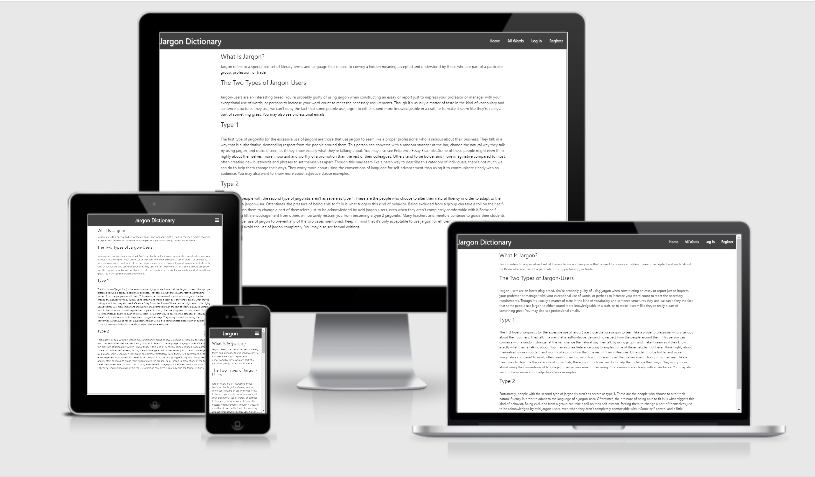
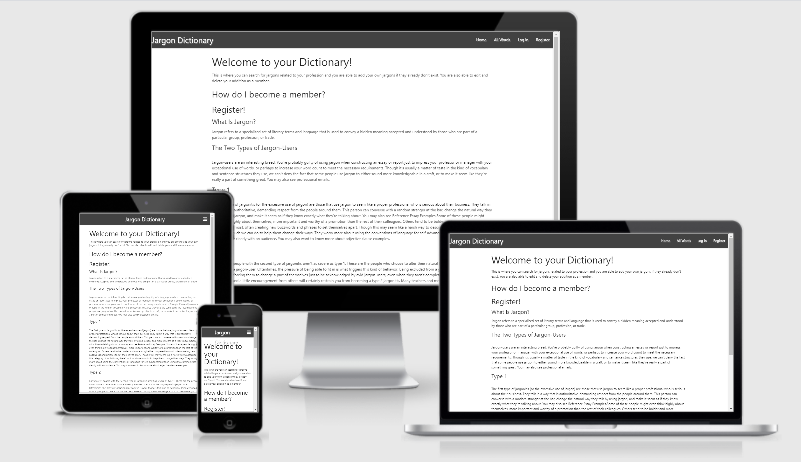
Replaced sketches, wireframe images and updated readme

Changed region(s): [[0.0624, 0.0, 0.9675, 0.9697]]

diff --git a/templates/base.html b/templates/base.html
@@ -38,7 +38,7 @@
 
         <!-- mobile side navbar -->
         <ul class="sidenav" id="mobile-demo">
-            <li><h4 class="center-align blue-grey-text text-darken-4">Jargon Dictionary</h4></li>
+            <li><h4 class="center-align blue-grey-text text-darken-4" style="font-size:5vw;text-align:center;">Jargon Dictionary</h4></li>
             <li><a href="{{ url_for('index') }}">Home</a></li>
             <li><a href="{{ url_for('get_inventories') }}">All Words</a></li>
             {% if session.user %}

diff --git a/static/css/style.css b/static/css/style.css
@@ -14,3 +14,9 @@
     margin: 5px;
     line-height: 42px;
 }
+
+@media only screen and (max-width: 400px) {
+  nav .brand-logo {
+    font-size: 1.2rem;
+  }
+}

diff --git a/README.md b/README.md
@@ -1,16 +1,11 @@
-<img src="/static/images/responsive.png" style="margin: 0; width: 80%;"><br>
+<img src="/static/Images/responsive.png" style="margin: 0; width: 80%;"><br>
 
 # Data Centric Development - Code Institute/O Akerele – Milestone3 Project 
 
 ***Preamble***<br>
-This is my Milestone3 project. It is a **Jargon Dictionary** that is designed to accommodate different professions.<br>
-The site is designed to allow registered members to contribute populate the dictionary. They are able to perform<br> 
-the following operation in the dictionary: Create, Read, Update and Delete (CRUD operation).<br> 
-Similarly, there is administrator priviledge who has the power to perform the CRUD operation and additionally, the<br> 
-only one that could introduce a new category before registered members could begin to perform the CRUD operation on<br> 
-the newly created category.<br>
-Furthermore, it is noteworthy that this site is work-in-progress as there is still a lot of room for improvement. For<br>
-example: password restriction, populating the Profile Page with User personal profile and word contributions.
+This is my Milestone3 project. It is a **Jargon Dictionary** that is designed to accommodate different<br> professions. The site is designed to allow registered members to contribute populate the dictionary. They are<br> able to perform the following operation in the dictionary: Create, Read, Update and Delete (CRUD operation).<br> 
+Similarly, there is administrator priviledge who has the power to perform the CRUD operation and additionally, the<br>
+only one that could introduce a new category before registered members could begin to perform the CRUD operation<br> on the newly created category. Furthermore, it is noteworthy that this site is work-in-progress as there is still<br> a lot of room for improvement. For example, password restriction, populating the Profile Page with User personal<br> profile together with his/her word contributions and adding a search button to the All Word Page.
 
 # Table of Contents
 1. [UX](#ux)
@@ -23,11 +18,12 @@ example: password restriction, populating the Profile Page with User personal pr
 3. [Existing Features](#existing-features)
     - [Home Page](#home-page)
     - [All Words Page](#all-words-page)
-    - [Log In Page](#login-page)
+    - [Register Page](#register-page)
+    - [Log In Page](#log-in-page)
     - [Profile Page](#profile-page)
     - [New Word Page](#new-word-page)
-    - [log Out Page](#logout-page)
     - [Manage Category Page](#manage-category-page)
+    - [log Out Page](#log-out-page)
 4. [Features](#features)
     - [Existing Features](#existing-features)
     - [Features Left](#features-left)
@@ -41,21 +37,18 @@ example: password restriction, populating the Profile Page with User personal pr
 
 # UX:
 ## Project Goal
-The whole idea behind this project is to provide **Jargon Dictionary** where external users will be able to search for<br> 
-words/meanings and particularly for the users to be able to contribute their own words and definitions to the dictionary.<br>
+The whole idea behind this project is to provide **Jargon Dictionary** where external users will be able to<br> search for words/meanings and particularly for the users to be able to contribute their own words and definitions<br> to the dictionary.<br>
 ## User Goal
-The User goal is to be able to lookup for jargons according to their profession and the meaning of such word. Also, the user<br>
-will be able to populate the dictionary by adding new words and meanings.<br>
+The User goal is to be able to lookup for jargons according to their profession and the meaning of such word.<br> Also, the user will be able to populate the dictionary by adding new words and meanings.<br>
 ## Developer Goal
-The Developer goal is mainly to collect good definitions of professional jargons which is to eventually be published into a<br> dictionary in form of a book.<br>
+The Developer goal is mainly to collect good definitions of professional jargons which is to eventually be<br> published into a dictionary in form of a book.<br>
 ## User Stories
-1. As a User I want to be able to search for a jargon and find the meaning to the word.
-2. As a User, I want to be able to contribute my quota e.g. if I know a new jargon that is not already in the dictionary, I<br> 
-want to be able to add it.
+1. As a User I want to be able to search for a jargon and find the meaning to the word.<br>
+2. As a User, I want to be able to contribute my quota e.g. if I know a new jargon that is not already in the<br> dictionary, I want to be able to add it.
 3. As a User, I want to be able to Edit/Update my contributions to the dictionary.<br>
-4. As a User , I want to be able to Delete any of my contributions.
+4. As a User , I want to be able to Delete any of my contributions.<br>
 ## Design Choices
-Bearing in mind the three main purposes of design i.e. communication, aesthetics and functionality, I choose to use grey and light<br> grey with white background to build a beautiful and attractive user interface. Green, red, and light grey colors are used for the buttons.     
+Bearing in mind the three main purposes of design i.e. communication, aesthetics and functionality, I choose to<br> use grey and light grey with white background to build a beautiful and attractive user interface. Green, red, and<br> light grey colors are used for the buttons.     
 
 # Wireframe using Balsamiq:
 * Sketching
@@ -63,110 +56,125 @@ Bearing in mind the three main purposes of design i.e. communication, aesthetics
 * Features
 * Design with Balsamiq
 
-<a href="/workspace/milestone3-project/static/images/mobile sketch for home & allwords.png">Sketch1</a><br>
-<a href="/workspace/milestone3-project/static/images/mobile wireframe for home & allwords.png">Wireframe1</a><br>
-<a href="/workspace/milestone3-project/static/images/mobile sketch for login & register.png">Sketch2</a><br>
-<a href="/workspace/milestone3-project/static/images/mobile wireframe for login & register.png">Wireframe2</a><br>
-<a href="/workspace/milestone3-project/static/images/mobile sketch for profile &manage category1.png">Sketch3</a><br>
-<a href="/workspace/milestone3-project/static/images/mobile wireframe for profile & manage category1.png">Wireframe3</a><br>
+<a href="static/Images/home&all-words.png">Sketch1</a><br>
+<a href="static/Images/home&all-words2.png">Wireframe1</a><br>
+<a href="static/Images/register&log-in.png">Sketch2</a><br>
+<a href="static/Images/register&log-in2.png">Wireframe2</a><br>
+<a href="static/Images/profile&new-word.png">Sketch3</a><br>
+<a href="static/Images/manage-category&log-out.png">Sketch4</a><br>
+<a href="static/Images/desktophome&all-words.png">Sketch5</a><br>
+<a href="static/Images/profile&new-word2.png">Wireframe3</a><br>
+<a href="static/Images/manage-category&log-out2.png">Wireframe4</a><br>
+<a href="static/Images/desktophome&all-words2.png">Wireframe5</a><br>
 
 # Existing Features:
-There are 7 key pages on this website:
+There are 8 key pages on this website:
 * [Home Page](#home-page)
 * [All Words Page](#all-words-page)
-* [Log In Page](#login-page)
+* [Register Page](#register-page)
+* [Log In Page](#log-in-page)
 * [Profile Page](#profile-page)
 * [New Word Page](#new-word-page)
-* [Log Out Page](#logout-page)
-* [Manage Category Page](manage-category-page)
+* [Manage Category Page](#manage-category-page)
+* [Log Out Page](#log-out-page)
 
-Every page is designed to show the navbar displaying the name of the dictionary and the interactive pages at the top right. The mobile<br> phone is designed to display the pages in a collapsible manner because of the number of pages to be displayed, the minimum of which is<br> four and maximum of six and some pages have lengthy name e.g. Manage Category. In the middle are the sections that display the<br> 
-message/information for the page.  The navbar was designed with the help of Materialize (materializecss.com).<br>
+Every page is designed to show the navbar displaying the name of the dictionary and the interactive pages at the<br> top right. The mobile phone is designed to display the pages in a collapsible manner because of the number of<br> pages to be displayed, the minimum of which is four and maximum of six and some pages have lengthy name e.g.<br> Manage Category. In the middle are the sections that display the message/information for the page.  The navbar<br> was designed with the help of Materialize (materializecss.com).<br>
 
 ## Home page
 
-The Home page is an introductory page for the **Jargon Dictionary.** It contains the navbar and only four pages viz: Home, All Words,<br> Log In and Register. The main page contains an introduction to what the the dictionary is all about. It defines Jargon and the types<br> of users which has been broken to Type 1 and Type 2.
+The Home page is an introductory page for the **Jargon Dictionary.** It contains the navbar and only four pages<br> viz: Home, All Words, Log In and Register. The main page contains an introduction to what the the dictionary is<br> all about. It defines Jargon and the types of users which has been broken to Type 1 and Type 2.<br>
 
 ## All Words Page
 
-This page like the previous page displays the navbar. The main body is the container for all the words contained in the dictionary and<br> they are arranged in alphabetical order. This is the page where all the new words contributed to the dictionary are recorded. It is<br> designed to show the word with a drop down arrow by its side, it is an accordion element that expand when clicked on to show:<br>
+This page like the previous page displays the navbar. The main body is the container for all the words contained<br> in the dictionary and they are arranged in alphabetical order. This is the page where all the new words contributed<br> to the dictionary are recorded. It is designed to show the word with a drop down arrow by its side, it is an accordion<br>element that expand when clicked on to show:<br>
 1. word meaning,<br>
 2. category that the jargon belong to and<br>
 3. the name of the creator.<br>
 
-## Log In
+## Register Page
 
+This page allows a new user to register and become a contributing member. A username and a password is required<br> and once that is acceptable, the user can always login to use the dictionary at anytime.
 
+## Log In Page
 
-## Contact Us
+This is the page that allows a registered user to log into their profile account page from where they can add their<br> own words (Create), search for all words (Read), edit their own words (Update) and delete their own words (Delete).<br> In other words, perform CRUD functionality. The username and a password is required to sign in.
 
-This page has been linked to the bottom of the home page where the address, the phone number and the email<br> 
-address of the gym can be located. 
+## Profile Page
+
+This is the page that a user is directed to upon signing in. This page is meant to contain the about-me of the user<br> and all the words contributed by him or her to the dictionary. It is worth noting however, that this page<br> is still a work-in-progress.
+
+## New Word Page
+
+Whenever a user wants to add word to the dictionary, he os she opens to this page and do the following:<br>
+1. Choose category (the profession that the jargon belongs),<br>
+2. Supply the word/jargon,<br>
+3. Supply the meaning and<br>
+4. Click add word.<br>
+
+That particular word then registers in All Word with the name of the user as the creator and it also registers in<br> the user's Profile Page.
+
+## Manage Category Page
+
+The manage category page is a reserved page for the Administrator of the Dictionary. The administrator has the<br> priviledge of being the only one that can populate the Categories and can perform the CRUD functionalities on the<br> whole dictionary. It is noteworthy, that anyone with the administrator password can act in that capacity.
+
+## Log Out Page
+
+This button should be clicked whenever a user has finished using the dictionary. When it is clicked, the user is<br> taken to the sign in page with a flash message "You have been logged out".
 
 
 # Features to implement
 
-As earlier stated, the website  is a work-in-progress and can still be improved upon. In the future, potential members<br> 
-will be able to register online to become members and those that just want to use the Gym's services without being<br> 
-members will be able to book online for whatever services they want at the time they want it from the comfort of their<br> 
-homes as against what obtains now (booking and paying over the phone and in the office).    
+As earlier stated, the website  is a work-in-progress and can still be improved upon. In the new version, user<br> will be able to search for word meaning by:<br>
+1. Word,<br>
+2. Profession and even by<br>
+3. Creator.<br>
+
+through the introduction of Search button at the top center of the All Word Page. The password will be with some<br> restrictions i.e. requiring it to include letters, figures, uppercases and characters and others noted above such<br> as the Profile Page.  
 
 # Technologies Used
 
 The following technologies were used to create the website:
-
 * Gitpod full template - workspace
-* Bootstrap 4.4.1 - used to simplify the structure and to make it responsive.
-* FontAwesome 4.7.0 - accessed for social media icons.
-* jquery 3.4.1 - used to reference Javascript modal
-* Google Fonts - used to style the website fonts.
+* HTML5 - used create the basic code for the pages.
+* CSS3 - Used to style the elements of the pages.
+* Materializecss 1.0.0 - used to simplify the structure and to make it responsive.
+* JavaScript - For the logic of some of the elements.
+* jquery 3.4.1 - used to reference Javascript and menu components.
+* Flask Framework - Used as the main framework for the website.
+* MongoDB - Used to store and retrieve the data created from the website.
+* Python version 3.8.7 - Used for routing and support alongside MongoDB and for interaction between pages
+* Google Chrome browser Developer Tools - Used for testing during development.
 * Balsamiq - the tool used to create the wireframe.
 
 # Testing
-
-## Header
-
-The header has a logo on the left-hand side and the menu bar at the right-hand side. The Menu contains the name and<br>  
-a Font Awesome icon for each of the features. When a user hovers their mouse over the menu, it hovers up to show the<br> 
-exact menu item that is to be opened for emphasis and the background color of ash. This has been manually tested and it<br> 
-works all across the web pages. Any of the pages can be seen and navigated from every page. It has been tested and found<br> 
-to be responsive. The header acts responsively across all resolutions too.
+## Navbar/Header
+  
+The header has the name of the Dictionary on the left-hand side and the pages at the right-hand side. Every name<br>on the navbar has a link to their main page. For example, the name of the dictionary in the navbar takes you<br> straight to the All Words page and the same holds true for the others. This has been tested manually and it works<br> nicely across all the devices. Materializecss technology was used to achieve this.   
   
 ## Home Page 
+The home page is an introductory page that contains only text which is meant for reading only. However, from the<br> navbar, both a new user and a registered user can navigate straight to All Words, register or login as the case<br> maybe. This was tested across all the devices and it works fine.
 
-The home page otherwise known as the landing page contains three sections viz: about us/picture of the front view of Fitness Always<br> 
-gym; the opening hours and contact details. The about us is a catching statement about the gymnasium to attract new customers.<br>
-It shared the row 50:50 with the front view photo of the gym. Section two is the opening hours of the gymnasium. It shows when the gym<br>
-is opened in the morning and closed in the night from Monday to Friday. This was styled to be positioned in the center. Finally, the contact<br> 
-session shows how the gym could be contacted either by post, telephone and/or email. The section is colored with gold after the menu<br> 
-bar contact-us color and linked with the contact page i.e. when the contact page is clicked from the menu bar, it links a user to this contact<br> 
-page and it does not matter which page the user is, once the contact page is clicked, it immediately directs the user to this section. This was<br> 
-tested across all the devices and it works fine.
+## All Words
+This is the page that contains all the words in the dictionary and both a registered and non registered user can<br> lookup word and meaning from this page. All a user need to do is look for the word, drop down the accordion to<br> see the meaning, category and creator of the word. This fulfills the first user story. It has been tested across<br> all the devices and it renders nicely.
 
-## Facilities Page
-
-This page explains to potential customers what services are available in the gym. At the moment, only six services are available but as time<br> 
-goes on, the gym will expand and add other services. The services are styled with Font Awesome Icons by the side of the title of each service.<br>
-The test carried out on this page was to navigate to it from another page and it works fine. Also, it works nicely across all the devices: mobile<br> 
-phone, iPad and desktop. 
-
-## Gallery Page
-
-When a user navigates to this page, it shows the different pictures of machines and tools available for use in the gymnasium. The pictures are<br> 
-nicely padded to differentiate them from one another. It has been tested to show these pictures across all the devices and the page can be navigated<br> 
-from other pages.
+## Registration form
+As a new user, you need to register so as to be able to contribute to the dictionary. In the registration form,<br> if you try to submit the form without filling any of the required filled, an error message appears asking "Please<br> fill out this field". Furthermore, if you supply unacceptable password i.e. lesser characters, an error message<br> pops up asking "please match the reqested format" and if you attempt to supply more characters than allowed, it<br> will not accept it and when you try to register an already registered details, it will report back that "Username<br> already exists".<br>
+There is a light blue line separating the required fields, this changes to red during filling in of the fields<br> and changes back to blue when correctly filled-in otherwise it remains red to remind user of the next step. Also,<br> a link is at the bottom of the form to re-direct registered user to Login page. All these controls have been<br> manually tested and found to be working effectively. 
  
-## Contact Us Page
+## Login Form
+If a wrong username or password is supplied an error message returns with a new login page saying "Incorrect<br> Username and/or Password and if you try to submit the form without filling any of the required filled, an error<br> message appears asking "Please fill out this field". There is a light blue line separating the required fields,<br> this changes to red during filling in of the fields and changes back to blue when correctly filled in otherwise<br> it remains red to remind user of the next step. Also, a link is at the bottom of the form to re-direct new user<br> to Registration page. All these functionalities have been tested and found to be working properly.
 
-This has been explained vividly in section 3 of the home page. When this page is clicked, it takes the user straight to that section of the home page<br>
-and this has been tested and found to be true from all other pages.
+## Profile
 
-## Footer
+This page is still a work-in-progress. In the meantime, the page renders nicely and a user can navigate through<br> other pages from there.
+ 
+## New Word Form
 
-The footer contains just the social media i.e. Facebook; Linkedin; Instagram; Twitter and YouTube. It is designed to share a<br> 
-light green color with the facilities menu and centered. It is also designed to be sticky. The social media are represented by<br> 
-Font Awesome Icons which are also styled with hover effect when the mouse goes over the icons. This has been tested across all<br> 
-the pages and it holds. 
+This is where all the words in the dictionary is generated. The form is designed similar to the other forms,there<br> is a light blue line separating the required fields, this changes to red during filling in of the fields and<br> changes back to blue when correctly filled in otherwise it remains red to remind user of the next step. Also, if<br> you try to submit the form without filling any of the required filled, an error message appears asking "Please<br> fill out this field". When all the fields are correctly filled out and the Add Word button is pressed, it takes<br> that user to his/her All Words Page with a message "Word Succesfully Added". I have manually tested all these and<br> they are working very fine.
+
+## Manage Category
+
+This page is the exclusive preserve of the administrator. From here, the administrator can perform the CRUD operation on category which is why the page is actually named Manage Category. He/She can also perform CRUD operations on All Words.
 
 ## SPELLING & GRAMMAR
 
